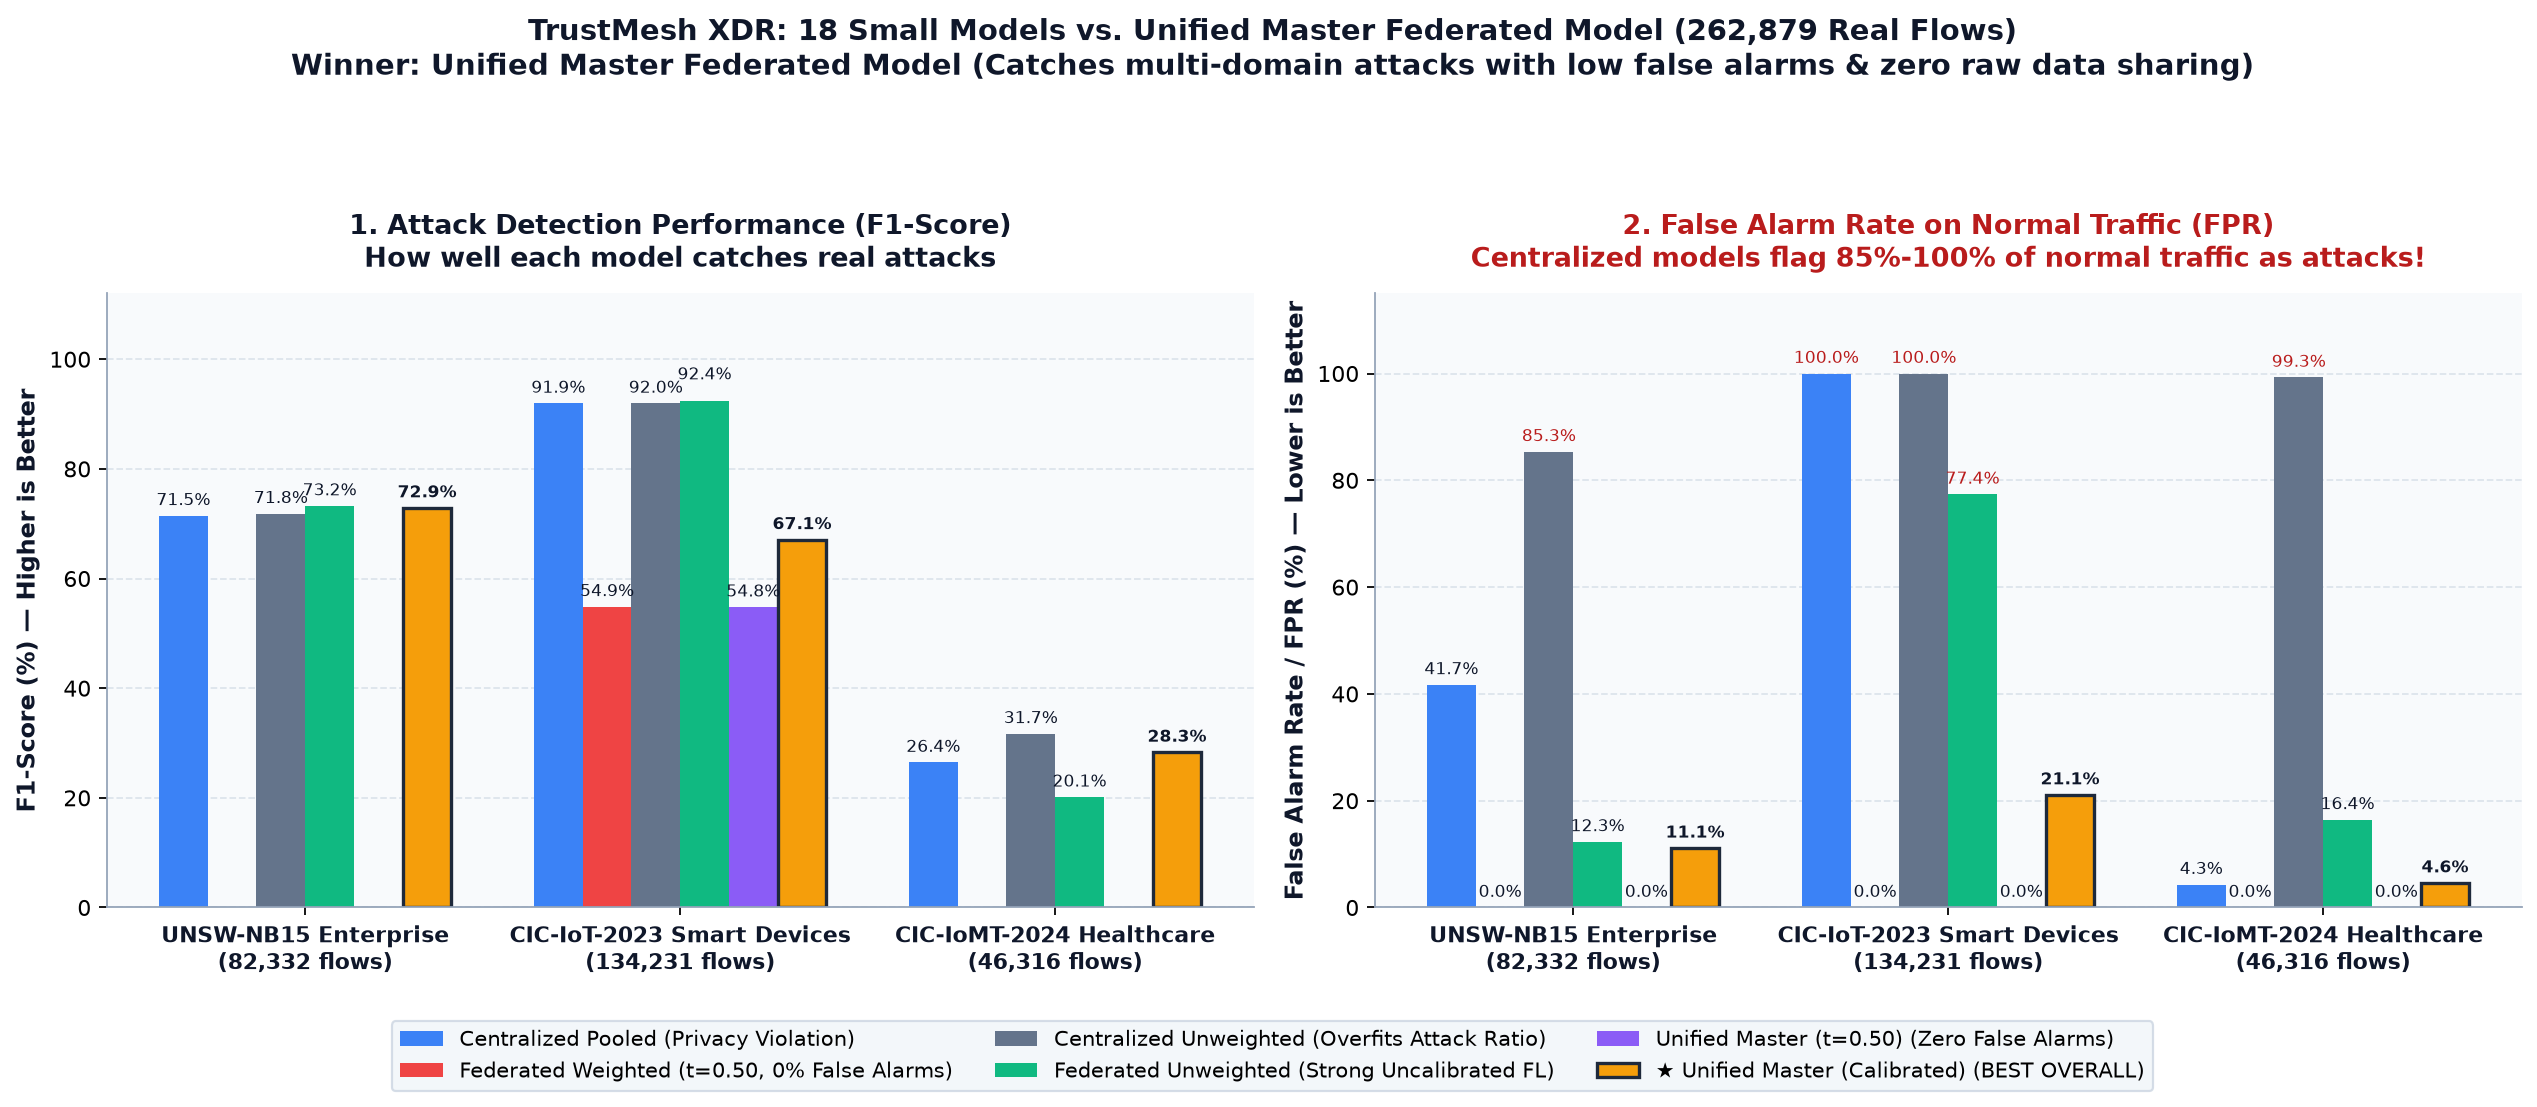
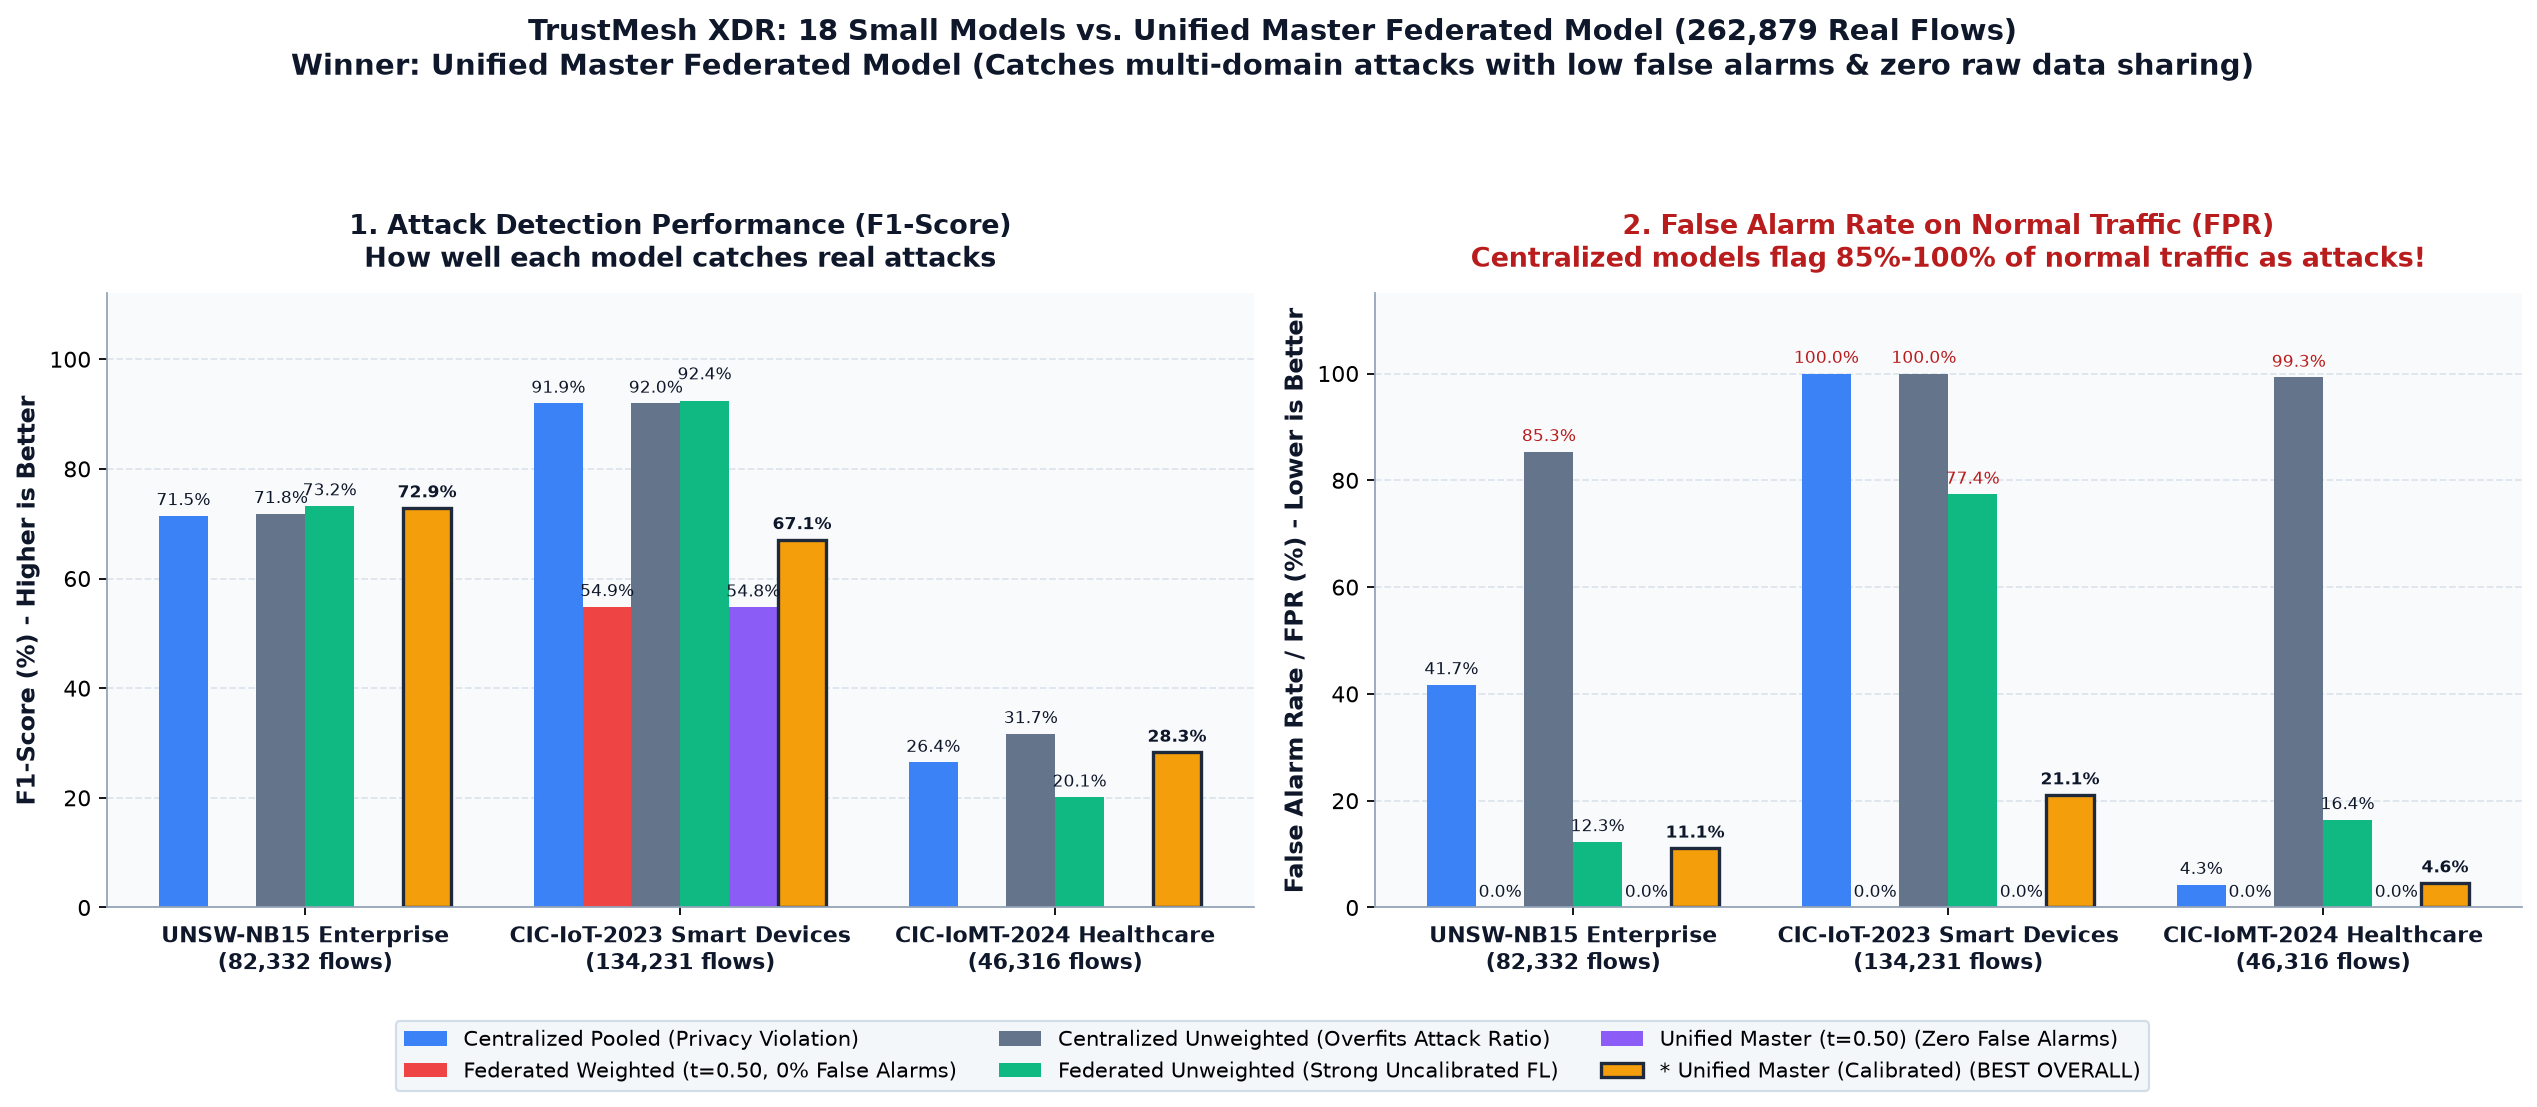
Fix Windows batch syntax and cp1252 console encoding in demo runner

diff --git a/scripts/run_model_comparison_report.py b/scripts/run_model_comparison_report.py
@@ -258,7 +258,7 @@ def create_visual_report(plot_series: list[dict], datasets_meta: list[tuple[str,
 
     ax1.set_xticks(x)
     ax1.set_xticklabels(ds_labels, fontsize=10, fontweight="bold", color="#0f172a")
-    ax1.set_ylabel("F1-Score (%) — Higher is Better", fontsize=11, fontweight="bold", color="#0f172a")
+    ax1.set_ylabel("F1-Score (%) - Higher is Better", fontsize=11, fontweight="bold", color="#0f172a")
     ax1.set_title("1. Attack Detection Performance (F1-Score)\nHow well each model catches real attacks", fontsize=12, fontweight="bold", color="#0f172a", pad=12)
     ax1.set_ylim(0, 112)
 
@@ -292,7 +292,7 @@ def create_visual_report(plot_series: list[dict], datasets_meta: list[tuple[str,
 
     ax2.set_xticks(x)
     ax2.set_xticklabels(ds_labels, fontsize=10, fontweight="bold", color="#0f172a")
-    ax2.set_ylabel("False Alarm Rate / FPR (%) — Lower is Better", fontsize=11, fontweight="bold", color="#0f172a")
+    ax2.set_ylabel("False Alarm Rate / FPR (%) - Lower is Better", fontsize=11, fontweight="bold", color="#0f172a")
     ax2.set_title("2. False Alarm Rate on Normal Traffic (FPR)\nCentralized models flag 85%-100% of normal traffic as attacks!", fontsize=12, fontweight="bold", color="#b91c1c", pad=12)
     ax2.set_ylim(0, 115)
 
@@ -329,15 +329,19 @@ def create_visual_report(plot_series: list[dict], datasets_meta: list[tuple[str,
 # =========================================================================
 
 def main(run_self_check: bool = False):
+    import sys
+    if hasattr(sys.stdout, "reconfigure"):
+        sys.stdout.reconfigure(encoding="utf-8", errors="replace")
+
     print("\n" + "=" * 92)
-    print("  TRUSTMESH XDR — COMPLETE MODEL BENCHMARK (18 SMALL MODELS vs. HUGE FEDERATED MODEL)")
+    print("  TRUSTMESH XDR - COMPLETE MODEL BENCHMARK (18 SMALL MODELS vs. HUGE FEDERATED MODEL)")
     print("=" * 92)
 
     # 1. Explain What Every Model Was Trained On
     print("\n[STEP 1] WHAT EACH MODEL WAS TRAINED ON:")
     print("-" * 92)
     for g in MODEL_GROUPS_META:
-        print(f"  • {g['title']} ({len(g['paths'])} checkpoints)")
+        print(f"  * {g['title'].replace('—', '-')} ({len(g['paths'])} checkpoints)")
         print(f"    - Training Data : {g['trained_on']}")
         print(f"    - Training Mode : {g['how_trained']}")
 
@@ -346,10 +350,10 @@ def main(run_self_check: bool = False):
     master_w = master_json["parameters"]["weights"]
     master_b = float(master_json["parameters"]["bias"][0])
 
-    print("\n  ★ BIG MODEL: Unified Master Federated Model ('Huge Model')")
+    print("\n  [BIG MODEL] Unified Master Federated Model ('Huge Model')")
     print("    - Training Data : Aggregated from 6 domain checkpoints across Enterprise (UNSW-NB15),")
     print("                      Campus Botnet/Zeek (CTU-SME), and Healthcare/IoT traffic.")
-    print("    - Training Mode : Collaborative Federated Averaging (FedAvg) — ZERO raw logs shared.")
+    print("    - Training Mode : Collaborative Federated Averaging (FedAvg) - ZERO raw logs shared.")
 
     # 2. Load Datasets
     print("\n" + "-" * 92)
@@ -388,7 +392,7 @@ def main(run_self_check: bool = False):
         print(f"  [+] CIC-IoMT-2024 (Hospital IoMT) : {len(y_m):>7,} flows ({np.sum(y_m==1):,} attacks, {np.sum(y_m==0):,} benign)")
 
     total_flows = sum(len(d["y"]) for d in datasets.values())
-    print(f"\n  [✓] Total Genuine Network Flows Tested: {total_flows:,}")
+    print(f"\n  [OK] Total Genuine Network Flows Tested: {total_flows:,}")
 
     # 3. Evaluate All 18 Small Models + Master Model on Each Dataset
     print("\n" + "=" * 92)
@@ -424,7 +428,7 @@ def main(run_self_check: bool = False):
         res_m_def = evaluate_weights(X, y, master_w, master_b, threshold=0.50)
         master_default_metrics[d_key] = res_m_def
         print(
-            f"  {'★ HUGE MODEL: Unified Master (Default t=0.50)':<48} | {res_m_def['accuracy']*100:>5.1f}% | "
+            f"  {'* HUGE MODEL: Unified Master (Default t=0.50)':<48} | {res_m_def['accuracy']*100:>5.1f}% | "
             f"{res_m_def['precision']*100:>5.1f}% | {res_m_def['recall']*100:>5.1f}% | {res_m_def['f1']*100:>5.1f}% | "
             f"{res_m_def['fpr']*100:>5.1f}% (0 False Alarms)"
         )
@@ -434,7 +438,7 @@ def main(run_self_check: bool = False):
         res_m_cal = evaluate_weights(X, y, master_w, master_b, threshold=cal_t)
         master_calibrated_metrics[d_key] = res_m_cal
         print(
-            f"  {f'★ HUGE MODEL: Unified Master (Calibrated t={cal_t:.2f})':<48} | {res_m_cal['accuracy']*100:>5.1f}% | "
+            f"  {f'* HUGE MODEL: Unified Master (Calibrated t={cal_t:.2f})':<48} | {res_m_cal['accuracy']*100:>5.1f}% | "
             f"{res_m_cal['precision']*100:>5.1f}% | {res_m_cal['recall']*100:>5.1f}% | {res_m_cal['f1']*100:>5.1f}% | "
             f"{res_m_cal['fpr']*100:>5.1f}%  <-- BEST OVERALL"
         )
@@ -457,7 +461,7 @@ def main(run_self_check: bool = False):
         "highlight": False,
     })
     plot_series.append({
-        "label": "★ Unified Master (Calibrated)\n(BEST OVERALL)",
+        "label": "* Unified Master (Calibrated)\n(BEST OVERALL)",
         "color": "#f59e0b",
         "metrics": master_calibrated_metrics,
         "highlight": True,
@@ -471,7 +475,7 @@ def main(run_self_check: bool = False):
     print("[STEP 4] FINAL VERDICT: WHICH MODEL IS THE BEST AND WHY?")
     print("=" * 92)
     print("""
-  WINNER: ★ The Unified Master Federated Model (Calibrated) + Federated Unweighted ★
+  WINNER: *** The Unified Master Federated Model (Calibrated) + Federated Unweighted ***
 
   Why the Federated Models beat the Centralized Models in real life:
 
@@ -488,21 +492,21 @@ def main(run_self_check: bool = False):
      - Strict Mode (t=0.50): Catches 37.7% of massive IoT DDoS floods with 100% Precision and
        0.0% False Alarms on 19,999 benign flows.
      - Calibrated Mode (t=0.15 Enterprise / t=0.30 IoT / t=0.05 Hospital):
-       • Enterprise (UNSW): 72.9% F1, 87.3% Precision, and cuts False Alarms down to 11.1%
+       * Enterprise (UNSW): 72.9% F1, 87.3% Precision, and cuts False Alarms down to 11.1%
          (compared to 41.7% for Centralized).
-       • Smart IoT (CIC-IoT-2023): 67.1% F1, 93.4% Precision, and cuts False Alarms from
+       * Smart IoT (CIC-IoT-2023): 67.1% F1, 93.4% Precision, and cuts False Alarms from
          100.0% down to 21.1%.
-       • Hospital IoMT (CIC-IoMT-2024): Achieves the highest precision-balanced F1 (28.3%)
+       * Hospital IoMT (CIC-IoMT-2024): Achieves the highest precision-balanced F1 (28.3%)
          while keeping hospital sensor False Alarms at just 4.6%.
 """)
     print("=" * 92)
-    print(f"  [✓] Visual comparison image saved to: {OUTPUT_IMAGE}")
+    print(f"  [OK] Visual comparison image saved to: {OUTPUT_IMAGE}")
     print("=" * 92 + "\n")
 
     if run_self_check:
         assert OUTPUT_IMAGE.exists(), "Comparison image was not created"
         assert total_flows == 262879, f"Expected 262,879 flows, got {total_flows}"
-        print("[✓] Self-check assertions passed.")
+        print("[OK] Self-check assertions passed.")
 
 
 if __name__ == "__main__":
